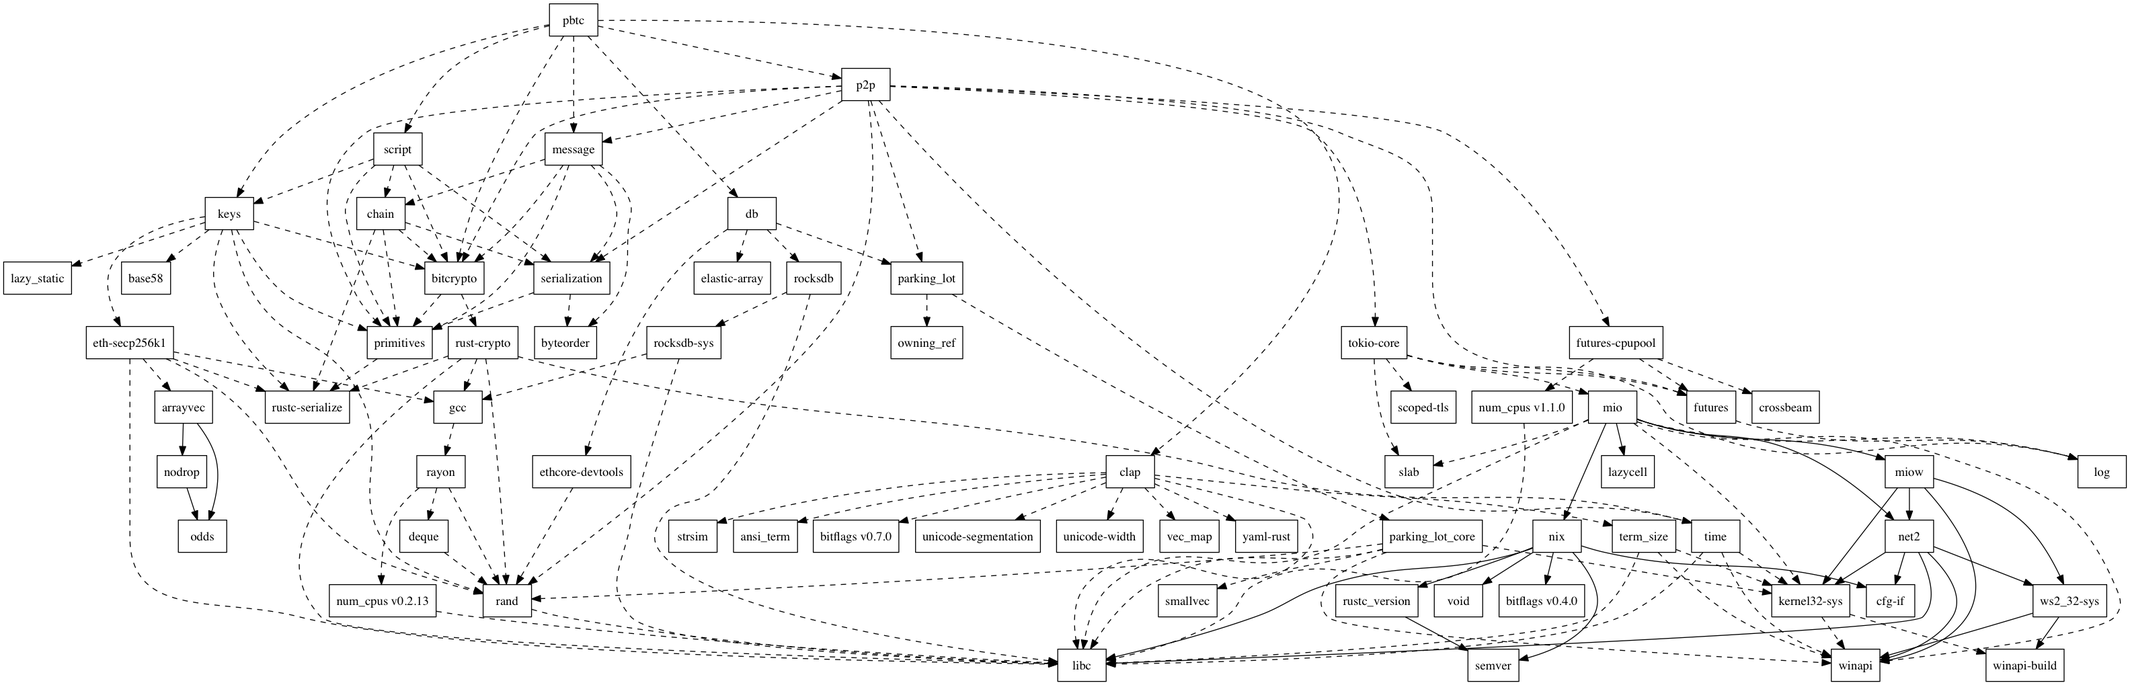
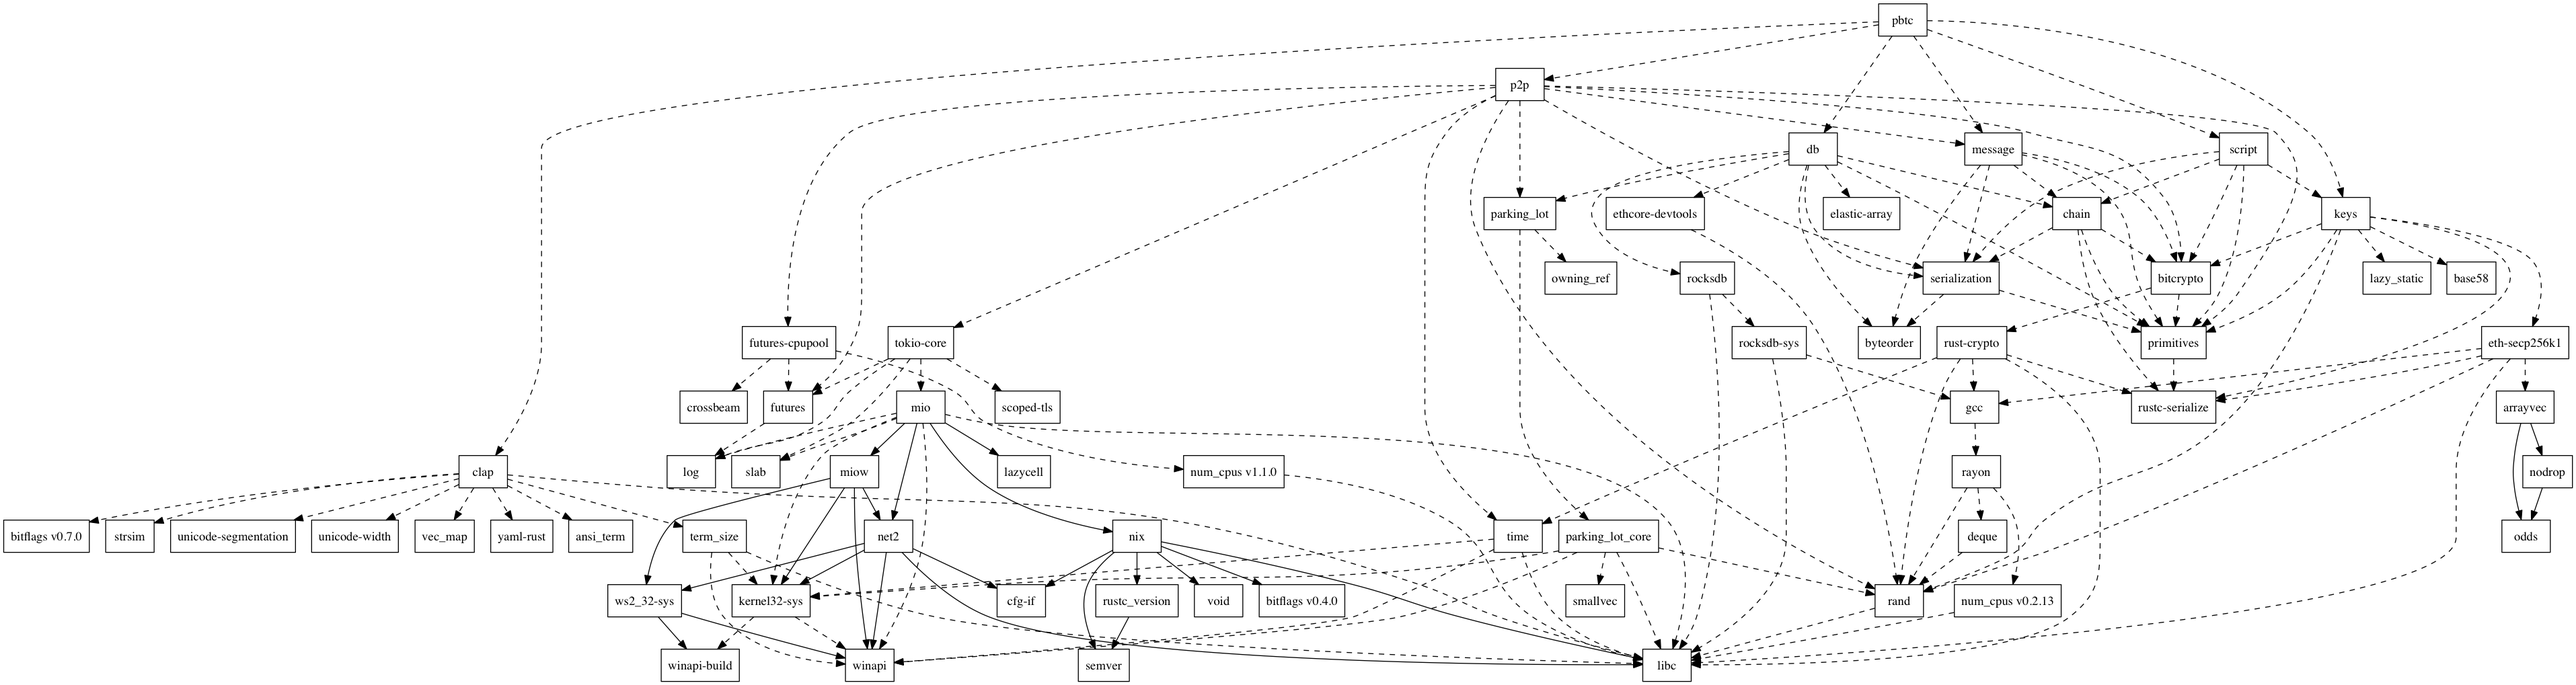
updated dependency graph

diff --git a/pbtc/main.rs b/pbtc/main.rs
@@ -3,7 +3,6 @@
 #[macro_use]
 extern crate clap;
 
-extern crate bitcrypto as crypto;
 extern crate keys;
 extern crate script;
 extern crate message;
